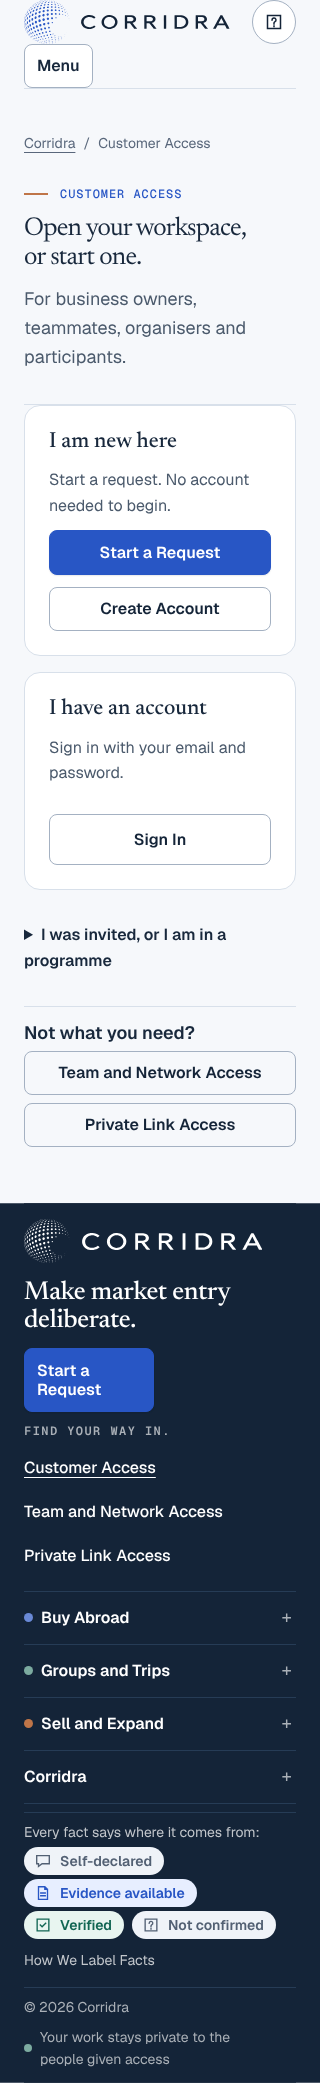
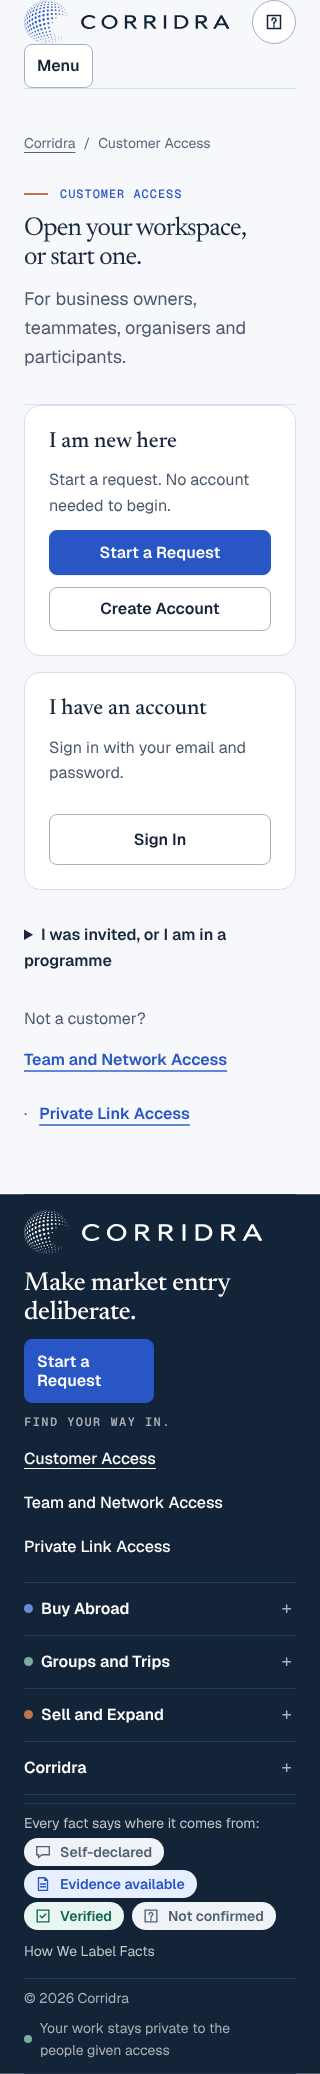
Access doors and sign in: one "Not a customer?" line, retire the unused panel
The customer door and the customer sign-in show the board's single line "Not a customer?
Team and Network Access, Private Link Access" instead of the shared bar and the second
"Not a Customer?" disclosure; other pages keep the bar. Removes create-panel.tsx and the
alignment spec that only drew it.

Claude-Session: https://claude.ai/code/session_0187kU9uW9NmYZN2i7SzRdj1

diff --git a/tests/ux/access-signin.spec.ts b/tests/ux/access-signin.spec.ts
@@ -85,12 +85,18 @@ test('More ways in is one closed disclosure and keeps every destination', async 
     'href',
     '/plan',
   );
-  // The older "Not a Customer?" disclosure keeps its four routes.
-  await page.getByText('Not a Customer?').click();
-  for (const href of ['/operator', '/workspace', '/contributor', '/plan'])
-    await expect(
-      page.locator(`nav[aria-label="Other access routes"] a[href="${href}"]`),
-    ).toHaveCount(1);
+  // The one "Not a customer?" line replaces the older "Not a Customer?" disclosure (owner board screen 03 and the
+  // owner's 18 November "unsolicited redundancy"): both other doors stay one tap away, and the disclosure is gone.
+  await expect(page.getByText('Not a Customer?', { exact: true })).toHaveCount(0);
+  const line = page.getByRole('navigation', { name: 'Not a customer?' });
+  await expect(line.getByRole('link', { name: 'Team and Network Access' })).toHaveAttribute(
+    'href',
+    '/access/team',
+  );
+  await expect(line.getByRole('link', { name: 'Private Link Access' })).toHaveAttribute(
+    'href',
+    '/access/link',
+  );
 });
 
 test('a return address is carried to the links in More ways in', async ({ page }) => {

diff --git a/tests/ux/access-doors.spec.ts b/tests/ux/access-doors.spec.ts
@@ -105,7 +105,23 @@ for (const entry of pages) {
       const on = process.env.CORRIDRA_UX_ACCESS_DOORS === 'true';
       const robots = (await page.locator('meta[name="robots"]').getAttribute('content')) ?? '';
       expect(robots.includes('noindex')).toBe(!on);
-      await expect(page.getByRole('navigation', { name: 'Not what you need?' })).toBeVisible();
+      // The customer door shows the single "Not a customer?" line instead of the bar (owner board, screen 03, and the
+      // owner's 18 November "unsolicited redundancy"). The other two doors keep the bar.
+      const customerDoor = entry.path === '/access/customer';
+      const nav = page.getByRole('navigation', {
+        name: customerDoor ? 'Not a customer?' : 'Not what you need?',
+      });
+      await expect(nav).toBeVisible();
+      if (customerDoor) {
+        await expect(nav.getByRole('link', { name: 'Team and Network Access' })).toHaveAttribute(
+          'href',
+          '/access/team',
+        );
+        await expect(nav.getByRole('link', { name: 'Private Link Access' })).toHaveAttribute(
+          'href',
+          '/access/link',
+        );
+      }
     });
   });
 }

diff --git a/apps/web/components/access-page.tsx b/apps/web/components/access-page.tsx
@@ -2,7 +2,7 @@ import Link from 'next/link';
 import type { ReactNode } from 'react';
 import { PublicShell } from './public-shell';
 import { CorridraIcon } from './corridra-icon';
-import { AccessElsewhere } from './access-elsewhere';
+import { AccessElsewhere, AccessNotCustomer } from './access-elsewhere';
 import { accessDoor, type AccessDoorId, type AccessIconName } from '../lib/access-doors';
 import { uxSwitchOn } from '../lib/ux-switches';
 import './page-compact.css';
@@ -25,12 +25,15 @@ export function AccessPage({
   eyebrow,
   title,
   lead,
+  notCustomer = false,
   children,
 }: {
   id: AccessDoorId;
   eyebrow: string;
   title: string;
   lead: string;
+  /** The customer door shows the single "Not a customer?" line instead of the shared bar. Other pages keep the bar. */
+  notCustomer?: boolean;
   children: ReactNode;
 }) {
   return (
@@ -51,7 +54,7 @@ export function AccessPage({
       </section>
       <div className="access-page">
         {children}
-        <AccessElsewhere current={id} />
+        {notCustomer ? <AccessNotCustomer current={id} /> : <AccessElsewhere current={id} />}
       </div>
     </PublicShell>
   );

diff --git a/apps/web/components/account-access.tsx b/apps/web/components/account-access.tsx
@@ -7,8 +7,7 @@ import { AccountForm, type AccountFormMode } from './account-form';
 import { PendingRequestNotice } from './pending-request-notice';
 import { realUseEnabled } from '@corridra/auth/customer-production';
 import { emailReturnPagesOn } from '../lib/ux-switches';
-import { AccessOptions } from './access-options';
-import { accessHelp } from '../lib/access-doors';
+import { AccessNotCustomer } from './access-elsewhere';
 import '../app/access/access.css';
 export function AccountAccess({ title, mode }: { title: string; mode: AccountFormMode }) {
   const config = readNeonAuthConfig();
@@ -53,12 +52,7 @@ export function AccountAccess({ title, mode }: { title: string; mode: AccountFor
             before creating an account. Team access needs a separate invitation.
           </p>
         )}
-        {mode === 'signin' && (
-          <details className="ux-journey-disclosure">
-            <summary>Not a Customer?</summary>
-            <AccessOptions {...accessHelp.customerOtherRoutes} />
-          </details>
-        )}
+        {mode === 'signin' && <AccessNotCustomer />}
       </section>
     </WorkspaceShell>
   );

diff --git a/apps/web/components/access-elsewhere.tsx b/apps/web/components/access-elsewhere.tsx
@@ -14,3 +14,27 @@ export function AccessElsewhere({ current }: { current: AccessDoorId }) {
     </nav>
   );
 }
+
+/**
+ * The single line on the customer door and the customer sign-in, in place of the bar (owner board, screen 03, and the
+ * owner's 18 November "unsolicited redundancy"): "Not a customer?" and a link to each of the other two doors. The links
+ * sit inside a paragraph, so they keep the quiet inline look.
+ */
+export function AccessNotCustomer({ current = 'customer' }: { current?: AccessDoorId }) {
+  const doors = otherAccessDoors(current);
+  return (
+    <nav className="access-not-customer" aria-label={accessElsewhereWords.notCustomer}>
+      <p>
+        <span>{accessElsewhereWords.notCustomer}</span>
+        {doors.map((door, index) => (
+          <span key={door.id} className="access-not-customer-item">
+            {index > 0 && <span aria-hidden="true">·</span>}
+            <Link prefetch={false} className="text-link" href={door.href}>
+              {door.title}
+            </Link>
+          </span>
+        ))}
+      </p>
+    </nav>
+  );
+}

diff --git a/tests/integration/access-doors.test.ts b/tests/integration/access-doors.test.ts
@@ -242,6 +242,14 @@ describe('the shared access navs', () => {
     expect(source.match(/key=\{link\.text\}/g)).toHaveLength(2);
   });
 
+  it('renders the single "Not a customer?" line with the other two door titles', async () => {
+    const { AccessNotCustomer } = await load('components/access-elsewhere.tsx');
+    const html = render(ce(AccessNotCustomer, { current: 'customer' }));
+    expect(html).toContain('aria-label="Not a customer?"');
+    expect(html).toContain('href="/access/team">Team and Network Access</a>');
+    expect(html).toContain('href="/access/link">Private Link Access</a>');
+    expect(html).not.toContain('Not what you need?');
+  });
   it('renders the "Not what you need?" bar with the other two door titles', async () => {
     const { AccessElsewhere } = await load('components/access-elsewhere.tsx');
     const html = render(ce(AccessElsewhere, { current: 'team' }));

diff --git a/tests/ux/access-customer-door.spec.ts b/tests/ux/access-customer-door.spec.ts
@@ -86,7 +86,9 @@ test('the account-free request and the other two doors are still linked', async 
   await expect(
     page.locator('main').getByRole('link', { name: 'Start a Request', exact: true }),
   ).toHaveAttribute('href', '/plan');
-  const bar = page.getByRole('navigation', { name: 'Not what you need?' });
+  // One line, not the bar: owner board screen 03 and the owner's 18 November "unsolicited redundancy".
+  const bar = page.getByRole('navigation', { name: 'Not a customer?' });
+  await expect(page.getByRole('navigation', { name: 'Not what you need?' })).toHaveCount(0);
   await expect(bar.getByRole('link', { name: 'Team and Network Access' })).toHaveAttribute(
     'href',
     '/access/team',

diff --git a/apps/web/app/access/access.css b/apps/web/app/access/access.css
@@ -261,6 +261,24 @@
   vertical-align: text-bottom;
   color: var(--critical);
 }
+/* The single "Not a customer?" line (customer door and customer sign-in): one wrapping row, quiet inline links. */
+.access-not-customer p {
+  display: flex;
+  flex-wrap: wrap;
+  align-items: center;
+  gap: var(--space-1) var(--space-3);
+  margin: 0;
+}
+.access-not-customer-item {
+  display: inline-flex;
+  align-items: center;
+  gap: var(--space-3);
+}
+.access-not-customer .text-link {
+  display: inline-flex;
+  align-items: center;
+  min-height: 2.75rem;
+}
 /* The helper interest form (ADR-0085): a disclosure on the team door, two short steps. Tokens only. */
 .access-interest {
   display: grid;

diff --git a/apps/web/lib/access-doors.ts b/apps/web/lib/access-doors.ts
@@ -323,7 +323,11 @@ export const linkDoorPage = {
 };
 
 /** The "Not what you need?" bar shared by the three pages. */
-export const accessElsewhereWords = { heading: 'Not what you need?' } as const;
+export const accessElsewhereWords = {
+  heading: 'Not what you need?',
+  /** The one line that replaces the bar on the customer door and the customer sign-in (owner board, screen 03). */
+  notCustomer: 'Not a customer?',
+} as const;
 
 export type AccessHelpLink = { href: string; text: string; plainAnchor?: boolean };
 export type AccessHelp = { label: string; intro?: string; links: AccessHelpLink[] };

diff --git a/apps/web/app/access/customer/page.tsx b/apps/web/app/access/customer/page.tsx
@@ -22,7 +22,13 @@ export default function Page() {
     programmes: customerProgrammesEnabled(),
   });
   return (
-    <AccessPage id="customer" eyebrow={page.eyebrow} title={page.title} lead={page.lead}>
+    <AccessPage
+      id="customer"
+      eyebrow={page.eyebrow}
+      title={page.title}
+      lead={page.lead}
+      notCustomer
+    >
       <div className="access-panels">
         <section className="access-panel" aria-labelledby="access-new">
           <h2 id="access-new">{doors.new.heading}</h2>
